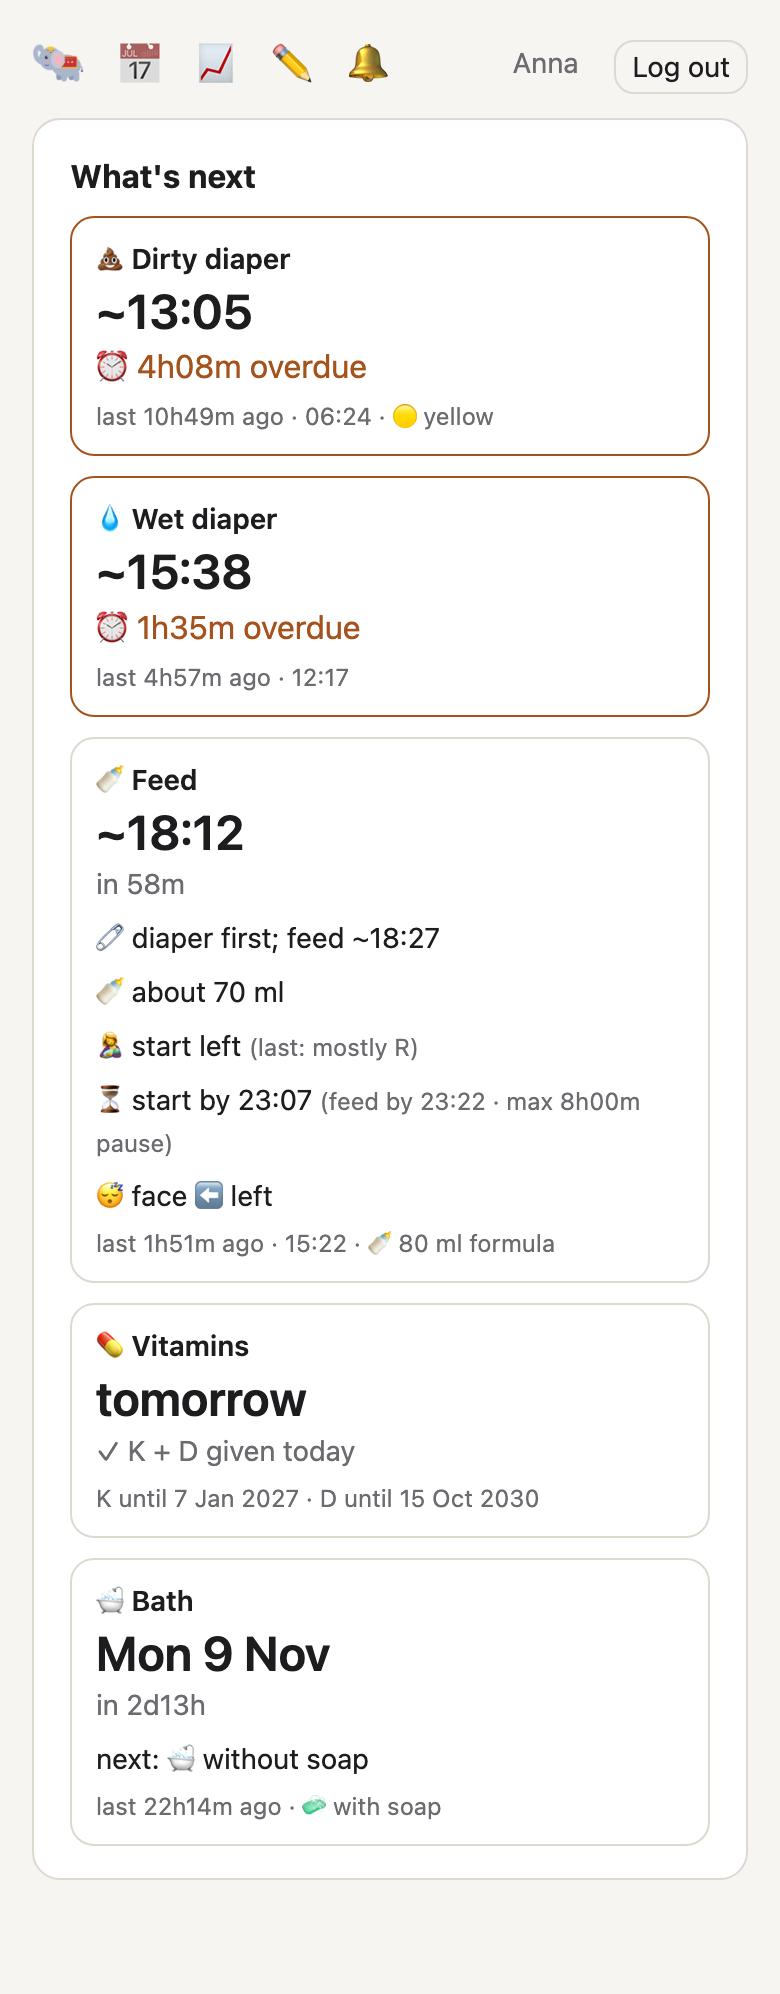
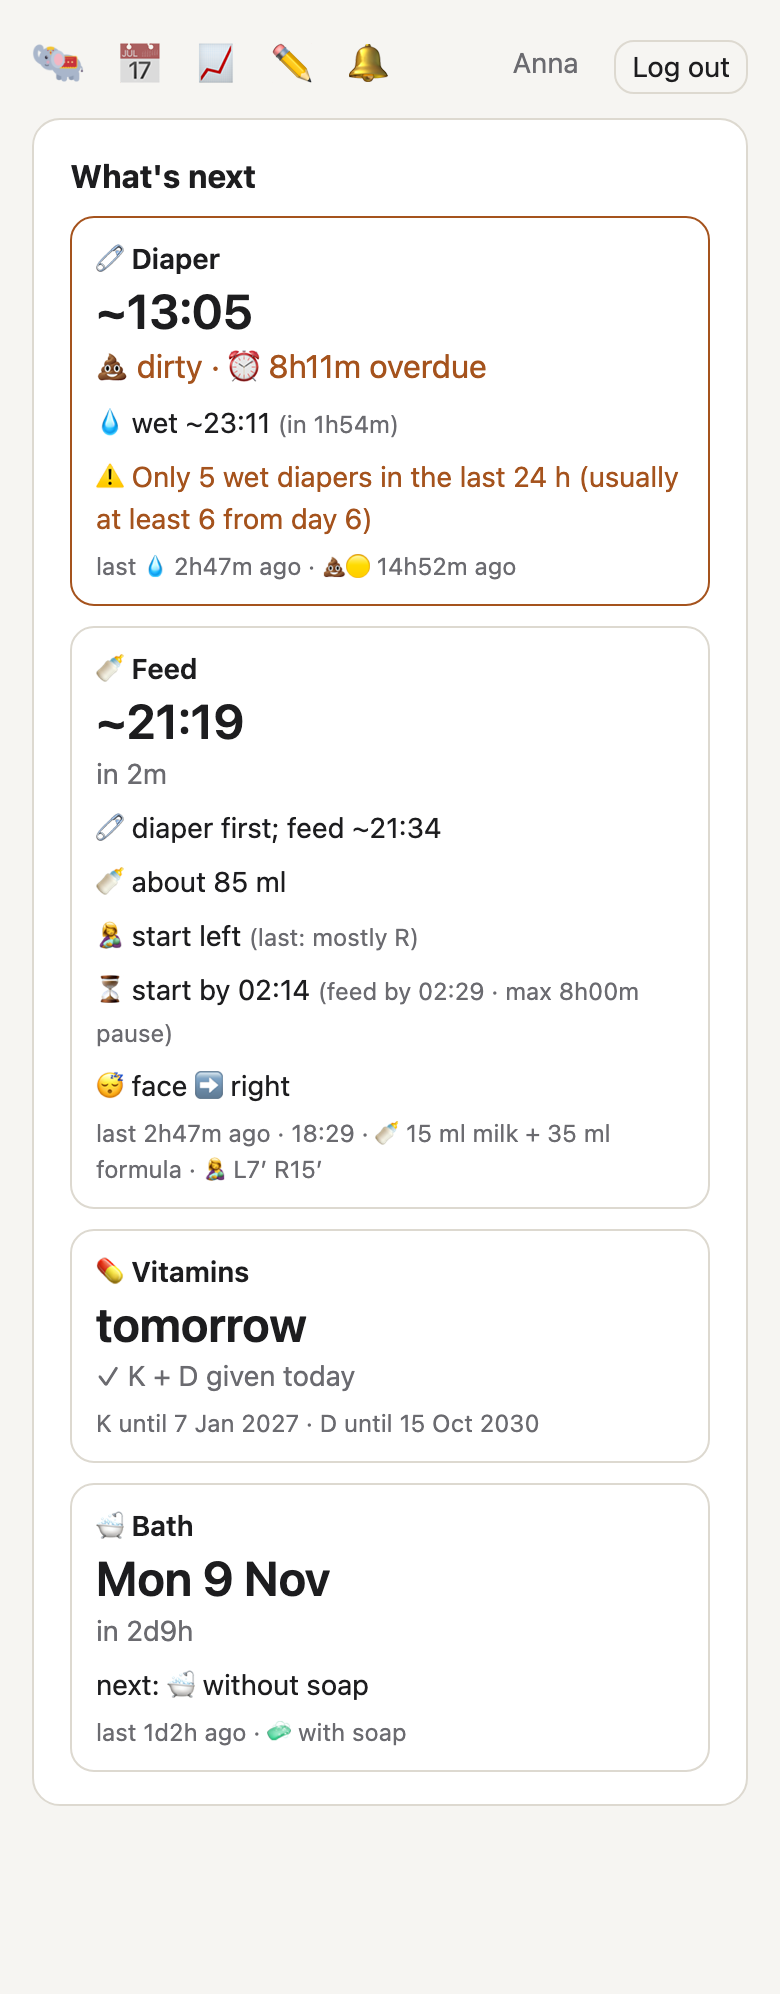
One diaper tile

diff --git a/src/web.rs b/src/web.rs
@@ -113,9 +113,6 @@ struct Next {
     html: String,
 }
 
-fn next_tile(title: &'static str, last: &Value, last_detail: &str, next: &Value) -> Next {
-    next_tile_extra(title, last, last_detail, next, "")
-}
 
 /// Like `next_tile`, with an extra line (already HTML) under the estimate.
 fn next_tile_extra(title: &'static str, last: &Value, last_detail: &str, next: &Value, extra: &str) -> Next {
@@ -192,6 +189,59 @@ fn sleep_line(v: &Value) -> String {
         _ => String::new(),
     };
     format!(r#"<div class="side">😴 face {} {}{assumed}</div>"#, side_arrow(next), esc(next))
+}
+
+/// One diaper tile: the earliest expected diaper (wet or dirty) as the
+/// headline, the other on a line below, and the wet diaper warning.
+fn diaper_tile(s: &Value) -> Next {
+    let wet = ("💧", "wet", &s["next_wet_diaper_estimate"], &s["last_wet_diaper"]);
+    let dirty = ("💩", "dirty", &s["next_dirty_diaper_estimate"], &s["last_dirty_diaper"]);
+    let at = |e: &Value| e["at"].as_str().map(str::to_string);
+    // The earliest first; one without an estimate last.
+    let (first, second) = match (at(wet.2), at(dirty.2)) {
+        (Some(a), Some(b)) if b < a => (dirty, wet),
+        (None, Some(_)) => (dirty, wet),
+        _ => (wet, dirty),
+    };
+    let hm = |e: &Value| e["at"].as_str().filter(|a| a.len() >= 16).map(|a| a[11..16].to_string());
+    let (when, sub, overdue) = match hm(first.2) {
+        None => ("—".to_string(), "not enough data yet".to_string(), false),
+        Some(t) => match (first.2["due_in"].as_str(), first.2["overdue_by"].as_str()) {
+            (_, Some(d)) => (format!("~{t}"), format!("{} {} · ⏰ {d} overdue", first.0, first.1), true),
+            (Some(d), _) => (format!("~{t}"), format!("{} {} · in {d}", first.0, first.1), false),
+            _ => (format!("~{t}"), format!("{} {}", first.0, first.1), false),
+        },
+    };
+    let other = match hm(second.2) {
+        Some(t) => {
+            let state = match (second.2["due_in"].as_str(), second.2["overdue_by"].as_str()) {
+                (_, Some(d)) => format!("{d} overdue"),
+                (Some(d), _) => format!("in {d}"),
+                _ => String::new(),
+            };
+            format!(r#"<div class="side">{} {} ~{t} <span class="mut">({state})</span></div>"#, second.0, second.1)
+        }
+        None => String::new(),
+    };
+    let warning = s["wet_diaper_warning"]["text"].as_str().map(|t| format!(r#"<div class="side warn">⚠ {}</div>"#, esc(t))).unwrap_or_default();
+    let last = |x: &(&str, &str, &Value, &Value)| {
+        x.3["ago"].as_str().map(|a| {
+            let color = x.3["value"].as_str().map(stool_emoji).unwrap_or("");
+            format!("{}{color} {a} ago", x.0)
+        })
+    };
+    let lasts: Vec<String> = [&wet, &dirty].iter().filter_map(|x| last(x)).collect();
+    let last_line = if lasts.is_empty() { "nothing logged yet".to_string() } else { format!("last {}", lasts.join(" · ")) };
+    let alarm = overdue || !warning.is_empty();
+    let html = format!(
+        r#"<div class="next{}"><div class="t">🧷 Diaper</div><div class="v">{}</div><div class="{}">{}</div>{other}{warning}<div class="last">{}</div></div>"#,
+        if alarm { " overdue" } else { "" },
+        esc(&when),
+        if overdue { "warn" } else { "mut" },
+        esc(&sub),
+        esc(&last_line)
+    );
+    Next { title: "🧷 Diaper", at: at(first.2), html }
 }
 
 /// The vitamins tile: what is still to give today (orange from 18:00), or
@@ -402,7 +452,6 @@ pub async fn status(State(app): State<Arc<App>>, headers: HeaderMap) -> Response
     );
 
     let feed_what = s["last_feed"]["value"]["fields"].as_object().map(feed_summary).unwrap_or_default();
-    let stool = s["last_dirty_diaper"]["value"].as_str().map(|c| format!("{} {c}", stool_emoji(c))).unwrap_or_default();
     let feed_warning = s["feeding_guidance"]["warnings"].as_array().is_some_and(|w| !w.is_empty());
     // With a preparation time, the tile shows when to start (diaper first).
     let start = &s["next_feed_start"];
@@ -417,15 +466,7 @@ pub async fn status(State(app): State<Arc<App>>, headers: HeaderMap) -> Response
     }
     let mut tiles = vec![
         feed,
-        {
-            let warning = s["wet_diaper_warning"]["text"].as_str().map(|t| format!(r#"<div class="side warn">⚠ {}</div>"#, esc(t))).unwrap_or_default();
-            let mut tile = next_tile_extra("💧 Wet diaper", &s["last_wet_diaper"], "", &s["next_wet_diaper_estimate"], &warning);
-            if !warning.is_empty() {
-                tile.html = tile.html.replacen(r#"<div class="next">"#, r#"<div class="next overdue">"#, 1);
-            }
-            tile
-        },
-        next_tile("💩 Dirty diaper", &s["last_dirty_diaper"], &stool, &s["next_dirty_diaper_estimate"]),
+        diaper_tile(&s),
         bath_tile(clock, &s["bath"], t),
     ];
     tiles.extend(vitamins_tile(clock, &s["vitamins"], t));
@@ -1267,12 +1308,33 @@ mod tests {
     }
 
     #[test]
+    fn one_diaper_tile() {
+        use serde_json::json;
+        let s = json!({
+            "next_wet_diaper_estimate": {"at": "2025-11-07 15:38", "overdue_by": "1h33m"},
+            "next_dirty_diaper_estimate": {"at": "2025-11-07 18:05", "due_in": "1h"},
+            "last_wet_diaper": {"ago": "4h54m"}, "last_dirty_diaper": {"ago": "10h46m", "value": "yellow"},
+        });
+        let t = diaper_tile(&s);
+        assert_eq!(t.at.as_deref(), Some("2025-11-07 15:38"));
+        assert!(t.html.contains(">~15:38<") && t.html.contains("💧 wet · ⏰ 1h33m overdue") && t.html.contains(r#"class="next overdue""#), "{}", t.html);
+        assert!(t.html.contains("💩 dirty ~18:05 <span class=\"mut\">(in 1h)</span>") && t.html.contains("last 💧 4h54m ago · 💩🟡 10h46m ago"), "{}", t.html);
+        // Dirty first when it is earlier; the warning makes the tile orange.
+        let mut s2 = s.clone();
+        s2["next_dirty_diaper_estimate"] = json!({"at": "2025-11-07 14:00", "due_in": "10m"});
+        s2["next_wet_diaper_estimate"] = json!({"at": "2025-11-07 16:00", "due_in": "2h"});
+        s2["wet_diaper_warning"] = json!({"text": "Only 4 wet diapers in the last 24 h (usually at least 6 from day 6)"});
+        let t = diaper_tile(&s2);
+        assert!(t.html.contains(">~14:00<") && t.html.contains("💩 dirty · in 10m") && t.html.contains("⚠ Only 4 wet") && t.html.contains(r#"class="next overdue""#), "{}", t.html);
+    }
+
+    #[test]
     fn whats_next_order() {
         use serde_json::json;
         let html = whats_next(vec![
-            next_tile("🍼 Feed", &json!({"ago": "1h", "at": "2025-11-07 13:00"}), "", &json!({"at": "2025-11-07 16:00", "due_in": "1h"})),
-            next_tile("💩 Dirty diaper", &Value::Null, "", &Value::Null),
-            next_tile("💧 Wet diaper", &json!({"ago": "3h", "at": "2025-11-07 11:00"}), "", &json!({"at": "2025-11-07 14:30", "overdue_by": "30m"})),
+            next_tile_extra("🍼 Feed", &json!({"ago": "1h", "at": "2025-11-07 13:00"}), "", &json!({"at": "2025-11-07 16:00", "due_in": "1h"}), ""),
+            next_tile_extra("💩 Dirty diaper", &Value::Null, "", &Value::Null, ""),
+            next_tile_extra("💧 Wet diaper", &json!({"ago": "3h", "at": "2025-11-07 11:00"}), "", &json!({"at": "2025-11-07 14:30", "overdue_by": "30m"}), ""),
         ]);
         let (w, f, d) = (html.find("Wet").unwrap(), html.find("Feed").unwrap(), html.find("Dirty").unwrap());
         assert!(w < f && f < d, "overdue first, no estimate last");
